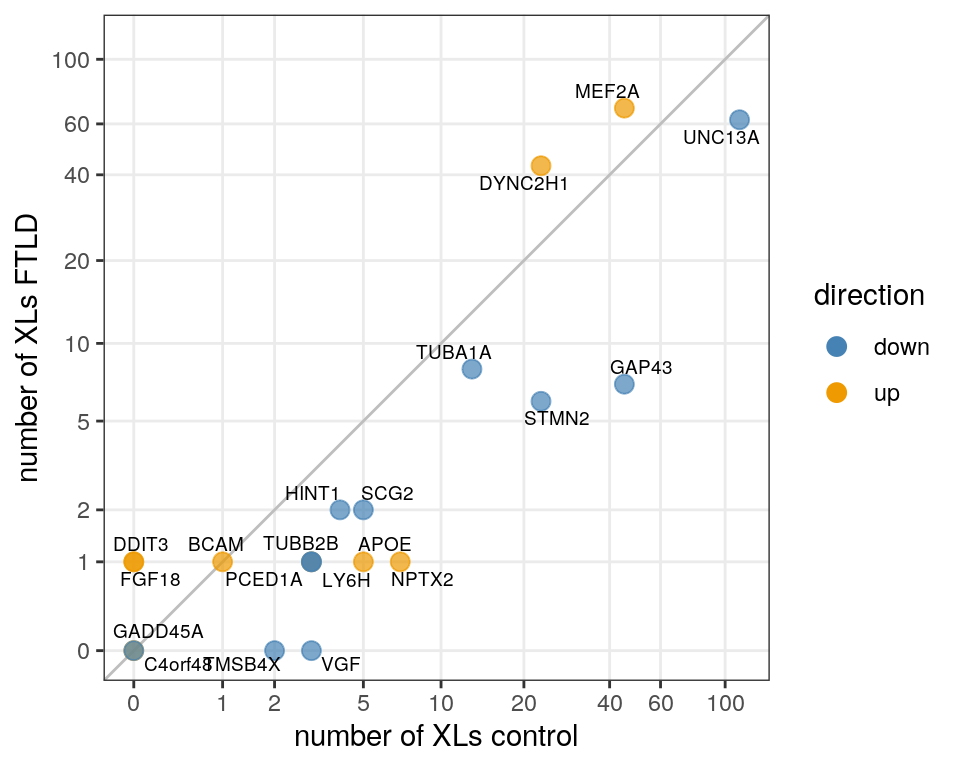
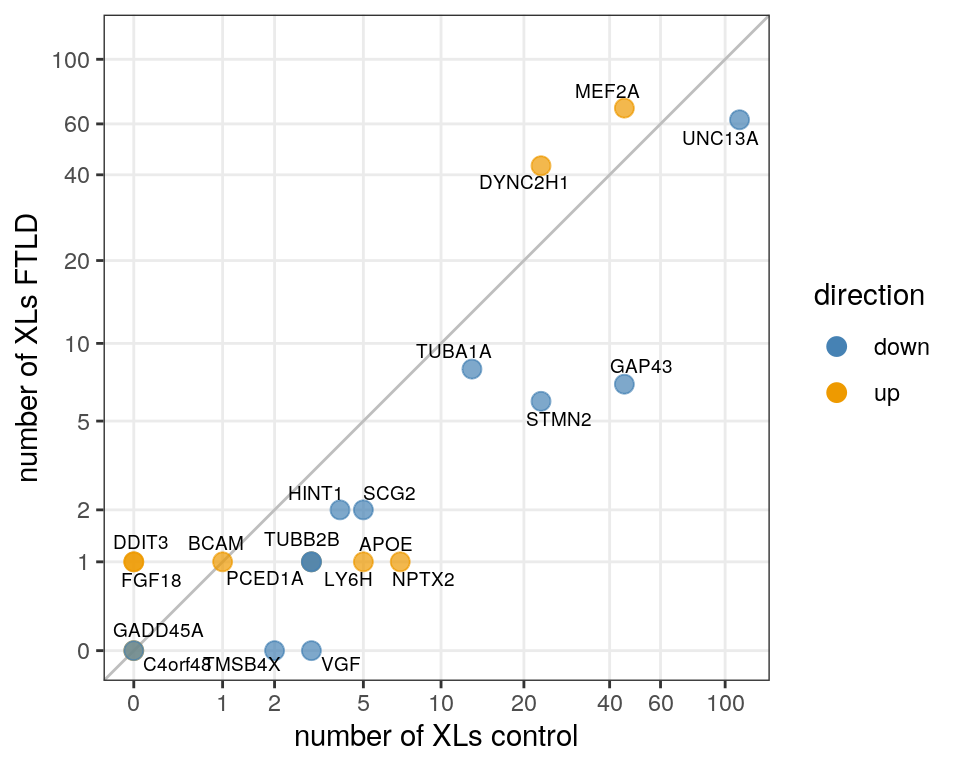
Build site.

diff --git a/docs/TDP-07-04-Tollervey_marker_binding.html b/docs/TDP-07-04-Tollervey_marker_binding.html
@@ -503,16 +503,16 @@ This reproducible <a href="http://rmarkdown.rstudio.com">R Markdown</a> analysis
 <div class="panel panel-default">
 <div class="panel-heading">
 <p class="panel-title">
-<a data-toggle="collapse" data-parent="#workflowr-checks" href="#strongRepositoryversionstrongahrefhttpsgithubcomkhembachneuralscRNAseqtree281d60d1a64fba1be0ecc8648f871f2a72fcbde5targetblank281d60da"> <span class="glyphicon glyphicon-ok text-success" aria-hidden="true"></span> <strong>Repository version:</strong> <a href="https://github.com/khembach/neural_scRNAseq/tree/281d60d1a64fba1be0ecc8648f871f2a72fcbde5" target="_blank">281d60d</a> </a>
+<a data-toggle="collapse" data-parent="#workflowr-checks" href="#strongRepositoryversionstrongahrefhttpsgithubcomkhembachneuralscRNAseqtreeb774264e11dd86455a7ef3fd38d1fa428ceb44a0targetblankb774264a"> <span class="glyphicon glyphicon-ok text-success" aria-hidden="true"></span> <strong>Repository version:</strong> <a href="https://github.com/khembach/neural_scRNAseq/tree/b774264e11dd86455a7ef3fd38d1fa428ceb44a0" target="_blank">b774264</a> </a>
 </p>
 </div>
[2 lines of base64/hex data omitted]
 <div class="panel-body">
 <p>
 Great! You are using Git for version control. Tracking code development and connecting the code version to the results is critical for reproducibility.
 </p>
 <p>
-The results in this page were generated with repository version <a href="https://github.com/khembach/neural_scRNAseq/tree/281d60d1a64fba1be0ecc8648f871f2a72fcbde5" target="_blank">281d60d</a>. See the <em>Past versions</em> tab to see a history of the changes made to the R Markdown and HTML files.
+The results in this page were generated with repository version <a href="https://github.com/khembach/neural_scRNAseq/tree/b774264e11dd86455a7ef3fd38d1fa428ceb44a0" target="_blank">b774264</a>. See the <em>Past versions</em> tab to see a history of the changes made to the R Markdown and HTML files.
 </p>
 <p>
 Note that you need to be careful to ensure that all relevant files for the analysis have been committed to Git prior to generating the results (you can use <code>wflow_publish</code> or <code>wflow_git_commit</code>). workflowr only checks the R Markdown file, but you know if there are other scripts or data files that it depends on. Below is the status of the Git repository when the results were generated:
@@ -891,6 +891,40 @@ Message
 Rmd
 </td>
 <td>
+<a href="https://github.com/khembach/neural_scRNAseq/blob/b774264e11dd86455a7ef3fd38d1fa428ceb44a0/analysis/TDP-07-04-Tollervey_marker_binding.Rmd" target="_blank">b774264</a>
+</td>
+<td>
+khembach
+</td>
+<td>
+2021-07-14
+</td>
+<td>
+remove warnings
+</td>
+</tr>
+<tr>
+<td>
+html
+</td>
+<td>
+<a href="https://rawcdn.githack.com/khembach/neural_scRNAseq/f29be144fc3af9fa37b5d6d23eadae62468cfe44/docs/TDP-07-04-Tollervey_marker_binding.html" target="_blank">f29be14</a>
+</td>
+<td>
+khembach
+</td>
+<td>
+2021-07-14
+</td>
+<td>
+Build site.
+</td>
+</tr>
+<tr>
+<td>
+Rmd
+</td>
+<td>
 <a href="https://github.com/khembach/neural_scRNAseq/blob/281d60d1a64fba1be0ecc8648f871f2a72fcbde5/analysis/TDP-07-04-Tollervey_marker_binding.Rmd" target="_blank">281d60d</a>
 </td>
 <td>
@@ -983,213 +1017,14 @@ olaps &lt;- sapply(df$gene, function(x) {
     res &lt;- c(countOverlaps(g ,xls[[&quot;control&quot;]]), countOverlaps(g, xls[[&quot;FTLD&quot;]]))
     names(res) &lt;- c(&quot;control&quot;, &quot;FTLD&quot;)
     res
-})</code></pre>
-<pre><code>Warning in .Seqinfo.mergexy(x, y): Each of the 2 combined objects has sequence levels not in the other:
-  - in &#39;x&#39;: GL000009.2, GL000195.1, GL000213.1, GL000218.1, GL000220.1, KI270721.1, KI270726.1, KI270734.1, KI270750.1
-  - in &#39;y&#39;: GL000224.1, KI270706.1, KI270707.1, KI270714.1, KI270736.1, KI270738.1, KI270742.1, KI270746.1, KI270752.1, KI270756.1, GL000214.1, KI270438.1, KI270467.1, KI270519.1, KI270708.1, KI270712.1, GL000008.2, GL000221.1, KI270512.1, KI270716.1, KI270749.1
-  Make sure to always combine/compare objects based on the same reference
-  genome (use suppressWarnings() to suppress this warning).</code></pre>
-<pre><code>Warning in .Seqinfo.mergexy(x, y): Each of the 2 combined objects has sequence levels not in the other:
-  - in &#39;x&#39;: GL000009.2, GL000213.1, GL000220.1, KI270711.1, KI270721.1, KI270726.1, KI270731.1, KI270734.1, KI270750.1
-  - in &#39;y&#39;: GL000008.2, KI270438.1, KI270467.1, KI270706.1, KI270708.1, GL000221.1, GL000224.1, KI270435.1, KI270718.1, KI270729.1, KI270736.1, KI270742.1, KI270749.1, KI270752.1, KI270521.1
-  Make sure to always combine/compare objects based on the same reference
-  genome (use suppressWarnings() to suppress this warning).</code></pre>
-<pre><code>Warning in .Seqinfo.mergexy(x, y): Each of the 2 combined objects has sequence levels not in the other:
-  - in &#39;x&#39;: GL000009.2, GL000195.1, GL000213.1, GL000218.1, GL000220.1, KI270721.1, KI270726.1, KI270734.1, KI270750.1
-  - in &#39;y&#39;: GL000224.1, KI270706.1, KI270707.1, KI270714.1, KI270736.1, KI270738.1, KI270742.1, KI270746.1, KI270752.1, KI270756.1, GL000214.1, KI270438.1, KI270467.1, KI270519.1, KI270708.1, KI270712.1, GL000008.2, GL000221.1, KI270512.1, KI270716.1, KI270749.1
-  Make sure to always combine/compare objects based on the same reference
-  genome (use suppressWarnings() to suppress this warning).</code></pre>
-<pre><code>Warning in .Seqinfo.mergexy(x, y): Each of the 2 combined objects has sequence levels not in the other:
-  - in &#39;x&#39;: GL000009.2, GL000213.1, GL000220.1, KI270711.1, KI270721.1, KI270726.1, KI270731.1, KI270734.1, KI270750.1
-  - in &#39;y&#39;: GL000008.2, KI270438.1, KI270467.1, KI270706.1, KI270708.1, GL000221.1, GL000224.1, KI270435.1, KI270718.1, KI270729.1, KI270736.1, KI270742.1, KI270749.1, KI270752.1, KI270521.1
-  Make sure to always combine/compare objects based on the same reference
-  genome (use suppressWarnings() to suppress this warning).</code></pre>
-<pre><code>Warning in .Seqinfo.mergexy(x, y): Each of the 2 combined objects has sequence levels not in the other:
-  - in &#39;x&#39;: GL000009.2, GL000195.1, GL000213.1, GL000218.1, GL000220.1, KI270721.1, KI270726.1, KI270734.1, KI270750.1
-  - in &#39;y&#39;: GL000224.1, KI270706.1, KI270707.1, KI270714.1, KI270736.1, KI270738.1, KI270742.1, KI270746.1, KI270752.1, KI270756.1, GL000214.1, KI270438.1, KI270467.1, KI270519.1, KI270708.1, KI270712.1, GL000008.2, GL000221.1, KI270512.1, KI270716.1, KI270749.1
-  Make sure to always combine/compare objects based on the same reference
-  genome (use suppressWarnings() to suppress this warning).</code></pre>
-<pre><code>Warning in .Seqinfo.mergexy(x, y): Each of the 2 combined objects has sequence levels not in the other:
-  - in &#39;x&#39;: GL000009.2, GL000213.1, GL000220.1, KI270711.1, KI270721.1, KI270726.1, KI270731.1, KI270734.1, KI270750.1
-  - in &#39;y&#39;: GL000008.2, KI270438.1, KI270467.1, KI270706.1, KI270708.1, GL000221.1, GL000224.1, KI270435.1, KI270718.1, KI270729.1, KI270736.1, KI270742.1, KI270749.1, KI270752.1, KI270521.1
-  Make sure to always combine/compare objects based on the same reference
-  genome (use suppressWarnings() to suppress this warning).</code></pre>
-<pre><code>Warning in .Seqinfo.mergexy(x, y): Each of the 2 combined objects has sequence levels not in the other:
-  - in &#39;x&#39;: GL000009.2, GL000195.1, GL000213.1, GL000218.1, GL000220.1, KI270721.1, KI270726.1, KI270734.1, KI270750.1
-  - in &#39;y&#39;: GL000224.1, KI270706.1, KI270707.1, KI270714.1, KI270736.1, KI270738.1, KI270742.1, KI270746.1, KI270752.1, KI270756.1, GL000214.1, KI270438.1, KI270467.1, KI270519.1, KI270708.1, KI270712.1, GL000008.2, GL000221.1, KI270512.1, KI270716.1, KI270749.1
-  Make sure to always combine/compare objects based on the same reference
-  genome (use suppressWarnings() to suppress this warning).</code></pre>
-<pre><code>Warning in .Seqinfo.mergexy(x, y): Each of the 2 combined objects has sequence levels not in the other:
-  - in &#39;x&#39;: GL000009.2, GL000213.1, GL000220.1, KI270711.1, KI270721.1, KI270726.1, KI270731.1, KI270734.1, KI270750.1
-  - in &#39;y&#39;: GL000008.2, KI270438.1, KI270467.1, KI270706.1, KI270708.1, GL000221.1, GL000224.1, KI270435.1, KI270718.1, KI270729.1, KI270736.1, KI270742.1, KI270749.1, KI270752.1, KI270521.1
-  Make sure to always combine/compare objects based on the same reference
-  genome (use suppressWarnings() to suppress this warning).</code></pre>
-<pre><code>Warning in .Seqinfo.mergexy(x, y): Each of the 2 combined objects has sequence levels not in the other:
-  - in &#39;x&#39;: GL000009.2, GL000195.1, GL000213.1, GL000218.1, GL000220.1, KI270721.1, KI270726.1, KI270734.1, KI270750.1
-  - in &#39;y&#39;: GL000224.1, KI270706.1, KI270707.1, KI270714.1, KI270736.1, KI270738.1, KI270742.1, KI270746.1, KI270752.1, KI270756.1, GL000214.1, KI270438.1, KI270467.1, KI270519.1, KI270708.1, KI270712.1, GL000008.2, GL000221.1, KI270512.1, KI270716.1, KI270749.1
-  Make sure to always combine/compare objects based on the same reference
-  genome (use suppressWarnings() to suppress this warning).</code></pre>
-<pre><code>Warning in .Seqinfo.mergexy(x, y): Each of the 2 combined objects has sequence levels not in the other:
-  - in &#39;x&#39;: GL000009.2, GL000213.1, GL000220.1, KI270711.1, KI270721.1, KI270726.1, KI270731.1, KI270734.1, KI270750.1
-  - in &#39;y&#39;: GL000008.2, KI270438.1, KI270467.1, KI270706.1, KI270708.1, GL000221.1, GL000224.1, KI270435.1, KI270718.1, KI270729.1, KI270736.1, KI270742.1, KI270749.1, KI270752.1, KI270521.1
-  Make sure to always combine/compare objects based on the same reference
-  genome (use suppressWarnings() to suppress this warning).</code></pre>
-<pre><code>Warning in .Seqinfo.mergexy(x, y): Each of the 2 combined objects has sequence levels not in the other:
-  - in &#39;x&#39;: GL000009.2, GL000195.1, GL000213.1, GL000218.1, GL000220.1, KI270721.1, KI270726.1, KI270734.1, KI270750.1
-  - in &#39;y&#39;: GL000224.1, KI270706.1, KI270707.1, KI270714.1, KI270736.1, KI270738.1, KI270742.1, KI270746.1, KI270752.1, KI270756.1, GL000214.1, KI270438.1, KI270467.1, KI270519.1, KI270708.1, KI270712.1, GL000008.2, GL000221.1, KI270512.1, KI270716.1, KI270749.1
-  Make sure to always combine/compare objects based on the same reference
-  genome (use suppressWarnings() to suppress this warning).</code></pre>
-<pre><code>Warning in .Seqinfo.mergexy(x, y): Each of the 2 combined objects has sequence levels not in the other:
-  - in &#39;x&#39;: GL000009.2, GL000213.1, GL000220.1, KI270711.1, KI270721.1, KI270726.1, KI270731.1, KI270734.1, KI270750.1
-  - in &#39;y&#39;: GL000008.2, KI270438.1, KI270467.1, KI270706.1, KI270708.1, GL000221.1, GL000224.1, KI270435.1, KI270718.1, KI270729.1, KI270736.1, KI270742.1, KI270749.1, KI270752.1, KI270521.1
-  Make sure to always combine/compare objects based on the same reference
-  genome (use suppressWarnings() to suppress this warning).</code></pre>
-<pre><code>Warning in .Seqinfo.mergexy(x, y): Each of the 2 combined objects has sequence levels not in the other:
-  - in &#39;x&#39;: GL000009.2, GL000195.1, GL000213.1, GL000218.1, GL000220.1, KI270721.1, KI270726.1, KI270734.1, KI270750.1
-  - in &#39;y&#39;: GL000224.1, KI270706.1, KI270707.1, KI270714.1, KI270736.1, KI270738.1, KI270742.1, KI270746.1, KI270752.1, KI270756.1, GL000214.1, KI270438.1, KI270467.1, KI270519.1, KI270708.1, KI270712.1, GL000008.2, GL000221.1, KI270512.1, KI270716.1, KI270749.1
-  Make sure to always combine/compare objects based on the same reference
-  genome (use suppressWarnings() to suppress this warning).</code></pre>
-<pre><code>Warning in .Seqinfo.mergexy(x, y): Each of the 2 combined objects has sequence levels not in the other:
-  - in &#39;x&#39;: GL000009.2, GL000213.1, GL000220.1, KI270711.1, KI270721.1, KI270726.1, KI270731.1, KI270734.1, KI270750.1
-  - in &#39;y&#39;: GL000008.2, KI270438.1, KI270467.1, KI270706.1, KI270708.1, GL000221.1, GL000224.1, KI270435.1, KI270718.1, KI270729.1, KI270736.1, KI270742.1, KI270749.1, KI270752.1, KI270521.1
-  Make sure to always combine/compare objects based on the same reference
-  genome (use suppressWarnings() to suppress this warning).</code></pre>
-<pre><code>Warning in .Seqinfo.mergexy(x, y): Each of the 2 combined objects has sequence levels not in the other:
-  - in &#39;x&#39;: GL000009.2, GL000195.1, GL000213.1, GL000218.1, GL000220.1, KI270721.1, KI270726.1, KI270734.1, KI270750.1
-  - in &#39;y&#39;: GL000224.1, KI270706.1, KI270707.1, KI270714.1, KI270736.1, KI270738.1, KI270742.1, KI270746.1, KI270752.1, KI270756.1, GL000214.1, KI270438.1, KI270467.1, KI270519.1, KI270708.1, KI270712.1, GL000008.2, GL000221.1, KI270512.1, KI270716.1, KI270749.1
-  Make sure to always combine/compare objects based on the same reference
-  genome (use suppressWarnings() to suppress this warning).</code></pre>
-<pre><code>Warning in .Seqinfo.mergexy(x, y): Each of the 2 combined objects has sequence levels not in the other:
-  - in &#39;x&#39;: GL000009.2, GL000213.1, GL000220.1, KI270711.1, KI270721.1, KI270726.1, KI270731.1, KI270734.1, KI270750.1
-  - in &#39;y&#39;: GL000008.2, KI270438.1, KI270467.1, KI270706.1, KI270708.1, GL000221.1, GL000224.1, KI270435.1, KI270718.1, KI270729.1, KI270736.1, KI270742.1, KI270749.1, KI270752.1, KI270521.1
-  Make sure to always combine/compare objects based on the same reference
-  genome (use suppressWarnings() to suppress this warning).</code></pre>
-<pre><code>Warning in .Seqinfo.mergexy(x, y): Each of the 2 combined objects has sequence levels not in the other:
-  - in &#39;x&#39;: GL000009.2, GL000195.1, GL000213.1, GL000218.1, GL000220.1, KI270721.1, KI270726.1, KI270734.1, KI270750.1
-  - in &#39;y&#39;: GL000224.1, KI270706.1, KI270707.1, KI270714.1, KI270736.1, KI270738.1, KI270742.1, KI270746.1, KI270752.1, KI270756.1, GL000214.1, KI270438.1, KI270467.1, KI270519.1, KI270708.1, KI270712.1, GL000008.2, GL000221.1, KI270512.1, KI270716.1, KI270749.1
-  Make sure to always combine/compare objects based on the same reference
-  genome (use suppressWarnings() to suppress this warning).</code></pre>
-<pre><code>Warning in .Seqinfo.mergexy(x, y): Each of the 2 combined objects has sequence levels not in the other:
-  - in &#39;x&#39;: GL000009.2, GL000213.1, GL000220.1, KI270711.1, KI270721.1, KI270726.1, KI270731.1, KI270734.1, KI270750.1
-  - in &#39;y&#39;: GL000008.2, KI270438.1, KI270467.1, KI270706.1, KI270708.1, GL000221.1, GL000224.1, KI270435.1, KI270718.1, KI270729.1, KI270736.1, KI270742.1, KI270749.1, KI270752.1, KI270521.1
-  Make sure to always combine/compare objects based on the same reference
-  genome (use suppressWarnings() to suppress this warning).</code></pre>
-<pre><code>Warning in .Seqinfo.mergexy(x, y): Each of the 2 combined objects has sequence levels not in the other:
-  - in &#39;x&#39;: GL000009.2, GL000195.1, GL000213.1, GL000218.1, GL000220.1, KI270721.1, KI270726.1, KI270734.1, KI270750.1
-  - in &#39;y&#39;: GL000224.1, KI270706.1, KI270707.1, KI270714.1, KI270736.1, KI270738.1, KI270742.1, KI270746.1, KI270752.1, KI270756.1, GL000214.1, KI270438.1, KI270467.1, KI270519.1, KI270708.1, KI270712.1, GL000008.2, GL000221.1, KI270512.1, KI270716.1, KI270749.1
-  Make sure to always combine/compare objects based on the same reference
-  genome (use suppressWarnings() to suppress this warning).</code></pre>
-<pre><code>Warning in .Seqinfo.mergexy(x, y): Each of the 2 combined objects has sequence levels not in the other:
-  - in &#39;x&#39;: GL000009.2, GL000213.1, GL000220.1, KI270711.1, KI270721.1, KI270726.1, KI270731.1, KI270734.1, KI270750.1
-  - in &#39;y&#39;: GL000008.2, KI270438.1, KI270467.1, KI270706.1, KI270708.1, GL000221.1, GL000224.1, KI270435.1, KI270718.1, KI270729.1, KI270736.1, KI270742.1, KI270749.1, KI270752.1, KI270521.1
-  Make sure to always combine/compare objects based on the same reference
-  genome (use suppressWarnings() to suppress this warning).</code></pre>
-<pre><code>Warning in .Seqinfo.mergexy(x, y): Each of the 2 combined objects has sequence levels not in the other:
-  - in &#39;x&#39;: GL000009.2, GL000195.1, GL000213.1, GL000218.1, GL000220.1, KI270721.1, KI270726.1, KI270734.1, KI270750.1
-  - in &#39;y&#39;: GL000224.1, KI270706.1, KI270707.1, KI270714.1, KI270736.1, KI270738.1, KI270742.1, KI270746.1, KI270752.1, KI270756.1, GL000214.1, KI270438.1, KI270467.1, KI270519.1, KI270708.1, KI270712.1, GL000008.2, GL000221.1, KI270512.1, KI270716.1, KI270749.1
-  Make sure to always combine/compare objects based on the same reference
-  genome (use suppressWarnings() to suppress this warning).</code></pre>
-<pre><code>Warning in .Seqinfo.mergexy(x, y): Each of the 2 combined objects has sequence levels not in the other:
-  - in &#39;x&#39;: GL000009.2, GL000213.1, GL000220.1, KI270711.1, KI270721.1, KI270726.1, KI270731.1, KI270734.1, KI270750.1
-  - in &#39;y&#39;: GL000008.2, KI270438.1, KI270467.1, KI270706.1, KI270708.1, GL000221.1, GL000224.1, KI270435.1, KI270718.1, KI270729.1, KI270736.1, KI270742.1, KI270749.1, KI270752.1, KI270521.1
-  Make sure to always combine/compare objects based on the same reference
-  genome (use suppressWarnings() to suppress this warning).</code></pre>
-<pre><code>Warning in .Seqinfo.mergexy(x, y): Each of the 2 combined objects has sequence levels not in the other:
-  - in &#39;x&#39;: GL000009.2, GL000195.1, GL000213.1, GL000218.1, GL000220.1, KI270721.1, KI270726.1, KI270734.1, KI270750.1
-  - in &#39;y&#39;: GL000224.1, KI270706.1, KI270707.1, KI270714.1, KI270736.1, KI270738.1, KI270742.1, KI270746.1, KI270752.1, KI270756.1, GL000214.1, KI270438.1, KI270467.1, KI270519.1, KI270708.1, KI270712.1, GL000008.2, GL000221.1, KI270512.1, KI270716.1, KI270749.1
-  Make sure to always combine/compare objects based on the same reference
-  genome (use suppressWarnings() to suppress this warning).</code></pre>
-<pre><code>Warning in .Seqinfo.mergexy(x, y): Each of the 2 combined objects has sequence levels not in the other:
-  - in &#39;x&#39;: GL000009.2, GL000213.1, GL000220.1, KI270711.1, KI270721.1, KI270726.1, KI270731.1, KI270734.1, KI270750.1
-  - in &#39;y&#39;: GL000008.2, KI270438.1, KI270467.1, KI270706.1, KI270708.1, GL000221.1, GL000224.1, KI270435.1, KI270718.1, KI270729.1, KI270736.1, KI270742.1, KI270749.1, KI270752.1, KI270521.1
-  Make sure to always combine/compare objects based on the same reference
-  genome (use suppressWarnings() to suppress this warning).</code></pre>
-<pre><code>Warning in .Seqinfo.mergexy(x, y): Each of the 2 combined objects has sequence levels not in the other:
-  - in &#39;x&#39;: GL000009.2, GL000195.1, GL000213.1, GL000218.1, GL000220.1, KI270721.1, KI270726.1, KI270734.1, KI270750.1
-  - in &#39;y&#39;: GL000224.1, KI270706.1, KI270707.1, KI270714.1, KI270736.1, KI270738.1, KI270742.1, KI270746.1, KI270752.1, KI270756.1, GL000214.1, KI270438.1, KI270467.1, KI270519.1, KI270708.1, KI270712.1, GL000008.2, GL000221.1, KI270512.1, KI270716.1, KI270749.1
-  Make sure to always combine/compare objects based on the same reference
-  genome (use suppressWarnings() to suppress this warning).</code></pre>
-<pre><code>Warning in .Seqinfo.mergexy(x, y): Each of the 2 combined objects has sequence levels not in the other:
-  - in &#39;x&#39;: GL000009.2, GL000213.1, GL000220.1, KI270711.1, KI270721.1, KI270726.1, KI270731.1, KI270734.1, KI270750.1
-  - in &#39;y&#39;: GL000008.2, KI270438.1, KI270467.1, KI270706.1, KI270708.1, GL000221.1, GL000224.1, KI270435.1, KI270718.1, KI270729.1, KI270736.1, KI270742.1, KI270749.1, KI270752.1, KI270521.1
-  Make sure to always combine/compare objects based on the same reference
-  genome (use suppressWarnings() to suppress this warning).</code></pre>
-<pre><code>Warning in .Seqinfo.mergexy(x, y): Each of the 2 combined objects has sequence levels not in the other:
-  - in &#39;x&#39;: GL000009.2, GL000195.1, GL000213.1, GL000218.1, GL000220.1, KI270721.1, KI270726.1, KI270734.1, KI270750.1
-  - in &#39;y&#39;: GL000224.1, KI270706.1, KI270707.1, KI270714.1, KI270736.1, KI270738.1, KI270742.1, KI270746.1, KI270752.1, KI270756.1, GL000214.1, KI270438.1, KI270467.1, KI270519.1, KI270708.1, KI270712.1, GL000008.2, GL000221.1, KI270512.1, KI270716.1, KI270749.1
-  Make sure to always combine/compare objects based on the same reference
-  genome (use suppressWarnings() to suppress this warning).</code></pre>
-<pre><code>Warning in .Seqinfo.mergexy(x, y): Each of the 2 combined objects has sequence levels not in the other:
-  - in &#39;x&#39;: GL000009.2, GL000213.1, GL000220.1, KI270711.1, KI270721.1, KI270726.1, KI270731.1, KI270734.1, KI270750.1
-  - in &#39;y&#39;: GL000008.2, KI270438.1, KI270467.1, KI270706.1, KI270708.1, GL000221.1, GL000224.1, KI270435.1, KI270718.1, KI270729.1, KI270736.1, KI270742.1, KI270749.1, KI270752.1, KI270521.1
-  Make sure to always combine/compare objects based on the same reference
-  genome (use suppressWarnings() to suppress this warning).</code></pre>
-<pre><code>Warning in .Seqinfo.mergexy(x, y): Each of the 2 combined objects has sequence levels not in the other:
-  - in &#39;x&#39;: GL000009.2, GL000195.1, GL000213.1, GL000218.1, GL000220.1, KI270721.1, KI270726.1, KI270734.1, KI270750.1
-  - in &#39;y&#39;: GL000224.1, KI270706.1, KI270707.1, KI270714.1, KI270736.1, KI270738.1, KI270742.1, KI270746.1, KI270752.1, KI270756.1, GL000214.1, KI270438.1, KI270467.1, KI270519.1, KI270708.1, KI270712.1, GL000008.2, GL000221.1, KI270512.1, KI270716.1, KI270749.1
-  Make sure to always combine/compare objects based on the same reference
-  genome (use suppressWarnings() to suppress this warning).</code></pre>
-<pre><code>Warning in .Seqinfo.mergexy(x, y): Each of the 2 combined objects has sequence levels not in the other:
-  - in &#39;x&#39;: GL000009.2, GL000213.1, GL000220.1, KI270711.1, KI270721.1, KI270726.1, KI270731.1, KI270734.1, KI270750.1
-  - in &#39;y&#39;: GL000008.2, KI270438.1, KI270467.1, KI270706.1, KI270708.1, GL000221.1, GL000224.1, KI270435.1, KI270718.1, KI270729.1, KI270736.1, KI270742.1, KI270749.1, KI270752.1, KI270521.1
-  Make sure to always combine/compare objects based on the same reference
-  genome (use suppressWarnings() to suppress this warning).</code></pre>
-<pre><code>Warning in .Seqinfo.mergexy(x, y): Each of the 2 combined objects has sequence levels not in the other:
-  - in &#39;x&#39;: GL000009.2, GL000195.1, GL000213.1, GL000218.1, GL000220.1, KI270721.1, KI270726.1, KI270734.1, KI270750.1
-  - in &#39;y&#39;: GL000224.1, KI270706.1, KI270707.1, KI270714.1, KI270736.1, KI270738.1, KI270742.1, KI270746.1, KI270752.1, KI270756.1, GL000214.1, KI270438.1, KI270467.1, KI270519.1, KI270708.1, KI270712.1, GL000008.2, GL000221.1, KI270512.1, KI270716.1, KI270749.1
-  Make sure to always combine/compare objects based on the same reference
-  genome (use suppressWarnings() to suppress this warning).</code></pre>
-<pre><code>Warning in .Seqinfo.mergexy(x, y): Each of the 2 combined objects has sequence levels not in the other:
-  - in &#39;x&#39;: GL000009.2, GL000213.1, GL000220.1, KI270711.1, KI270721.1, KI270726.1, KI270731.1, KI270734.1, KI270750.1
-  - in &#39;y&#39;: GL000008.2, KI270438.1, KI270467.1, KI270706.1, KI270708.1, GL000221.1, GL000224.1, KI270435.1, KI270718.1, KI270729.1, KI270736.1, KI270742.1, KI270749.1, KI270752.1, KI270521.1
-  Make sure to always combine/compare objects based on the same reference
-  genome (use suppressWarnings() to suppress this warning).</code></pre>
-<pre><code>Warning in .Seqinfo.mergexy(x, y): Each of the 2 combined objects has sequence levels not in the other:
-  - in &#39;x&#39;: GL000009.2, GL000195.1, GL000213.1, GL000218.1, GL000220.1, KI270721.1, KI270726.1, KI270734.1, KI270750.1
-  - in &#39;y&#39;: GL000224.1, KI270706.1, KI270707.1, KI270714.1, KI270736.1, KI270738.1, KI270742.1, KI270746.1, KI270752.1, KI270756.1, GL000214.1, KI270438.1, KI270467.1, KI270519.1, KI270708.1, KI270712.1, GL000008.2, GL000221.1, KI270512.1, KI270716.1, KI270749.1
-  Make sure to always combine/compare objects based on the same reference
-  genome (use suppressWarnings() to suppress this warning).</code></pre>
-<pre><code>Warning in .Seqinfo.mergexy(x, y): Each of the 2 combined objects has sequence levels not in the other:
-  - in &#39;x&#39;: GL000009.2, GL000213.1, GL000220.1, KI270711.1, KI270721.1, KI270726.1, KI270731.1, KI270734.1, KI270750.1
-  - in &#39;y&#39;: GL000008.2, KI270438.1, KI270467.1, KI270706.1, KI270708.1, GL000221.1, GL000224.1, KI270435.1, KI270718.1, KI270729.1, KI270736.1, KI270742.1, KI270749.1, KI270752.1, KI270521.1
-  Make sure to always combine/compare objects based on the same reference
-  genome (use suppressWarnings() to suppress this warning).</code></pre>
-<pre><code>Warning in .Seqinfo.mergexy(x, y): Each of the 2 combined objects has sequence levels not in the other:
-  - in &#39;x&#39;: GL000009.2, GL000195.1, GL000213.1, GL000218.1, GL000220.1, KI270721.1, KI270726.1, KI270734.1, KI270750.1
-  - in &#39;y&#39;: GL000224.1, KI270706.1, KI270707.1, KI270714.1, KI270736.1, KI270738.1, KI270742.1, KI270746.1, KI270752.1, KI270756.1, GL000214.1, KI270438.1, KI270467.1, KI270519.1, KI270708.1, KI270712.1, GL000008.2, GL000221.1, KI270512.1, KI270716.1, KI270749.1
-  Make sure to always combine/compare objects based on the same reference
-  genome (use suppressWarnings() to suppress this warning).</code></pre>
-<pre><code>Warning in .Seqinfo.mergexy(x, y): Each of the 2 combined objects has sequence levels not in the other:
-  - in &#39;x&#39;: GL000009.2, GL000213.1, GL000220.1, KI270711.1, KI270721.1, KI270726.1, KI270731.1, KI270734.1, KI270750.1
-  - in &#39;y&#39;: GL000008.2, KI270438.1, KI270467.1, KI270706.1, KI270708.1, GL000221.1, GL000224.1, KI270435.1, KI270718.1, KI270729.1, KI270736.1, KI270742.1, KI270749.1, KI270752.1, KI270521.1
-  Make sure to always combine/compare objects based on the same reference
-  genome (use suppressWarnings() to suppress this warning).</code></pre>
-<pre><code>Warning in .Seqinfo.mergexy(x, y): Each of the 2 combined objects has sequence levels not in the other:
-  - in &#39;x&#39;: GL000009.2, GL000195.1, GL000213.1, GL000218.1, GL000220.1, KI270721.1, KI270726.1, KI270734.1, KI270750.1
-  - in &#39;y&#39;: GL000224.1, KI270706.1, KI270707.1, KI270714.1, KI270736.1, KI270738.1, KI270742.1, KI270746.1, KI270752.1, KI270756.1, GL000214.1, KI270438.1, KI270467.1, KI270519.1, KI270708.1, KI270712.1, GL000008.2, GL000221.1, KI270512.1, KI270716.1, KI270749.1
-  Make sure to always combine/compare objects based on the same reference
-  genome (use suppressWarnings() to suppress this warning).</code></pre>
-<pre><code>Warning in .Seqinfo.mergexy(x, y): Each of the 2 combined objects has sequence levels not in the other:
-  - in &#39;x&#39;: GL000009.2, GL000213.1, GL000220.1, KI270711.1, KI270721.1, KI270726.1, KI270731.1, KI270734.1, KI270750.1
-  - in &#39;y&#39;: GL000008.2, KI270438.1, KI270467.1, KI270706.1, KI270708.1, GL000221.1, GL000224.1, KI270435.1, KI270718.1, KI270729.1, KI270736.1, KI270742.1, KI270749.1, KI270752.1, KI270521.1
-  Make sure to always combine/compare objects based on the same reference
-  genome (use suppressWarnings() to suppress this warning).</code></pre>
-<pre><code>Warning in .Seqinfo.mergexy(x, y): Each of the 2 combined objects has sequence levels not in the other:
-  - in &#39;x&#39;: GL000009.2, GL000195.1, GL000213.1, GL000218.1, GL000220.1, KI270721.1, KI270726.1, KI270734.1, KI270750.1
-  - in &#39;y&#39;: GL000224.1, KI270706.1, KI270707.1, KI270714.1, KI270736.1, KI270738.1, KI270742.1, KI270746.1, KI270752.1, KI270756.1, GL000214.1, KI270438.1, KI270467.1, KI270519.1, KI270708.1, KI270712.1, GL000008.2, GL000221.1, KI270512.1, KI270716.1, KI270749.1
-  Make sure to always combine/compare objects based on the same reference
-  genome (use suppressWarnings() to suppress this warning).</code></pre>
-<pre><code>Warning in .Seqinfo.mergexy(x, y): Each of the 2 combined objects has sequence levels not in the other:
-  - in &#39;x&#39;: GL000009.2, GL000213.1, GL000220.1, KI270711.1, KI270721.1, KI270726.1, KI270731.1, KI270734.1, KI270750.1
-  - in &#39;y&#39;: GL000008.2, KI270438.1, KI270467.1, KI270706.1, KI270708.1, GL000221.1, GL000224.1, KI270435.1, KI270718.1, KI270729.1, KI270736.1, KI270742.1, KI270749.1, KI270752.1, KI270521.1
-  Make sure to always combine/compare objects based on the same reference
-  genome (use suppressWarnings() to suppress this warning).</code></pre>
-<pre class="r"><code>df$control &lt;- olaps[&quot;control&quot;, ]
+})
+
+df$control &lt;- olaps[&quot;control&quot;, ]
 df$FTLD &lt;- olaps[&quot;FTLD&quot;, ]</code></pre>
 <pre class="r"><code>ggplot(df, aes(x = control + 1, y = FTLD + 1, color = direction, label = gene)) + 
   geom_abline(intercept = 0, slope = 1, color = &quot;grey&quot;) +
   geom_point(size = 3, alpha = 0.7) +
-  geom_text_repel(color = &quot;black&quot;, force = 2, size = 2.5) + 
+  geom_text_repel(color = &quot;black&quot;, force = 2.5, size = 2.5) + 
   theme_bw() + 
   scale_x_log10(breaks=c(1, 2, 3, 6, 11, 21, 41, 61, 101),
                 labels=c(&quot;0&quot;, &quot;1&quot;, &quot;2&quot;, &quot;5&quot;, &quot;10&quot;, &quot;20&quot;, &quot;40&quot;, &quot;60&quot;, &quot;100&quot;),
@@ -1226,6 +1061,17 @@ Date
 </tr>
 </thead>
 <tbody>
+<tr>
+<td>
+<a href="https://github.com/khembach/neural_scRNAseq/blob/f29be144fc3af9fa37b5d6d23eadae62468cfe44/docs/figure/TDP-07-04-Tollervey_marker_binding.Rmd/plot-nr-xls-1.png" target="_blank">f29be14</a>
+</td>
+<td>
+khembach
+</td>
+<td>
+2021-07-14
+</td>
+</tr>
 <tr>
 <td>
 <a href="https://github.com/khembach/neural_scRNAseq/blob/d217260ed52b37ea1735d7bee0f570bfca5de198/docs/figure/TDP-07-04-Tollervey_marker_binding.Rmd/plot-nr-xls-1.png" target="_blank">d217260</a>
